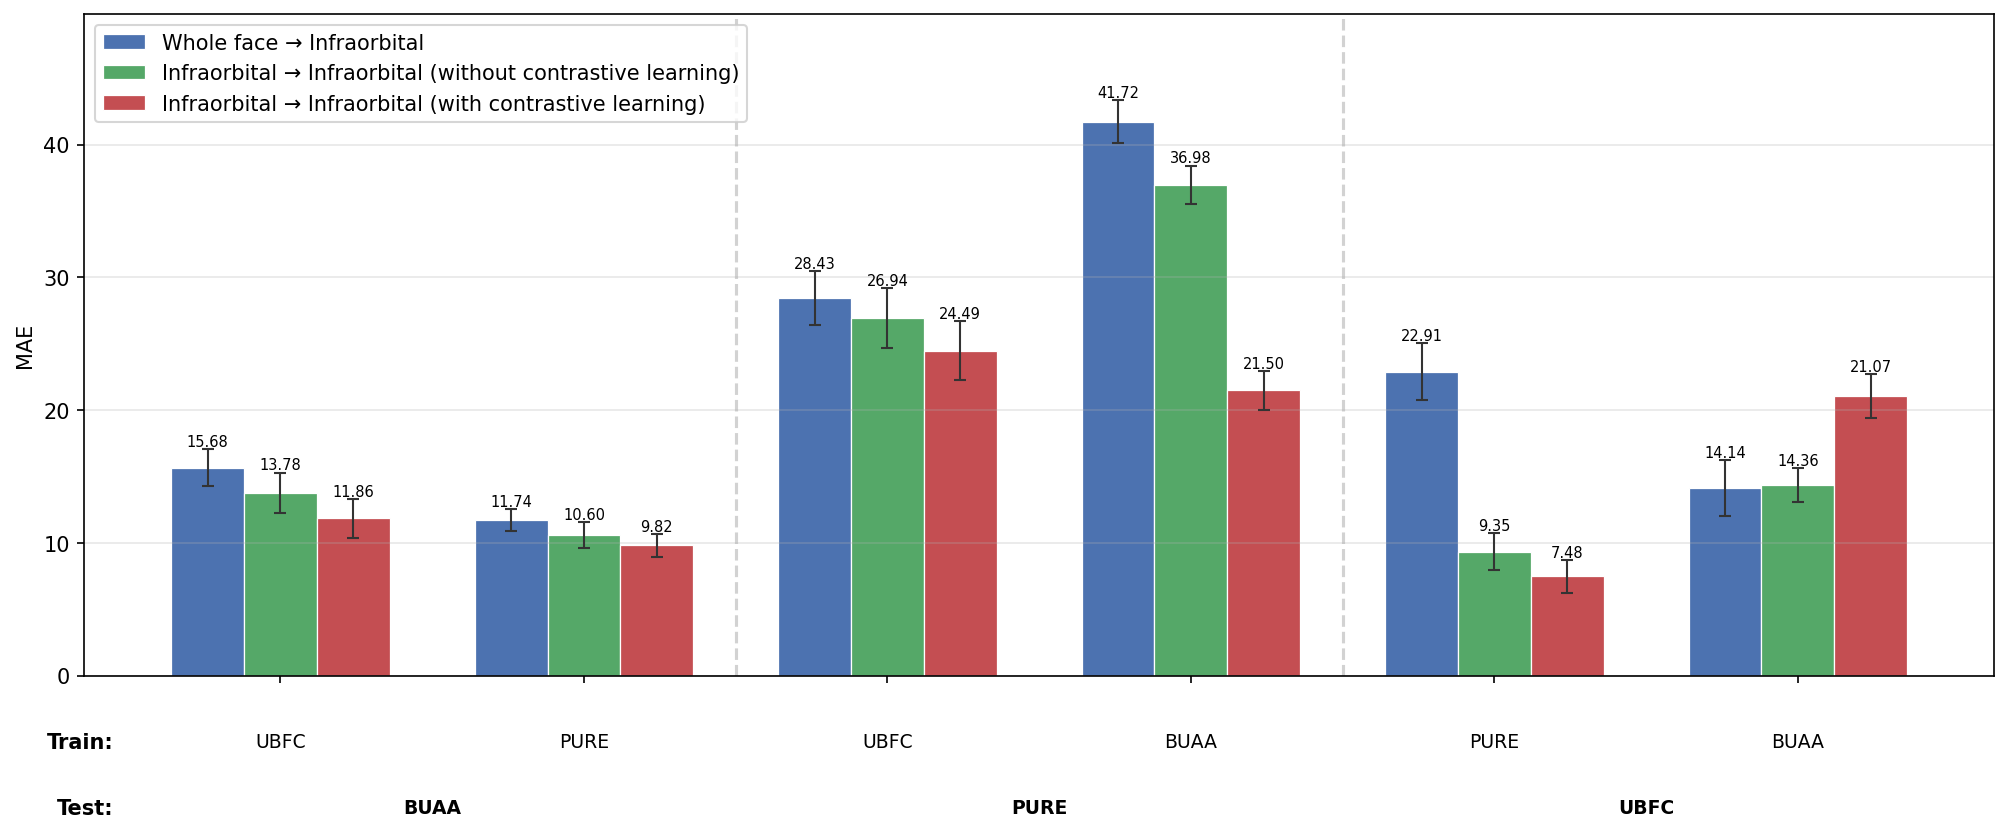
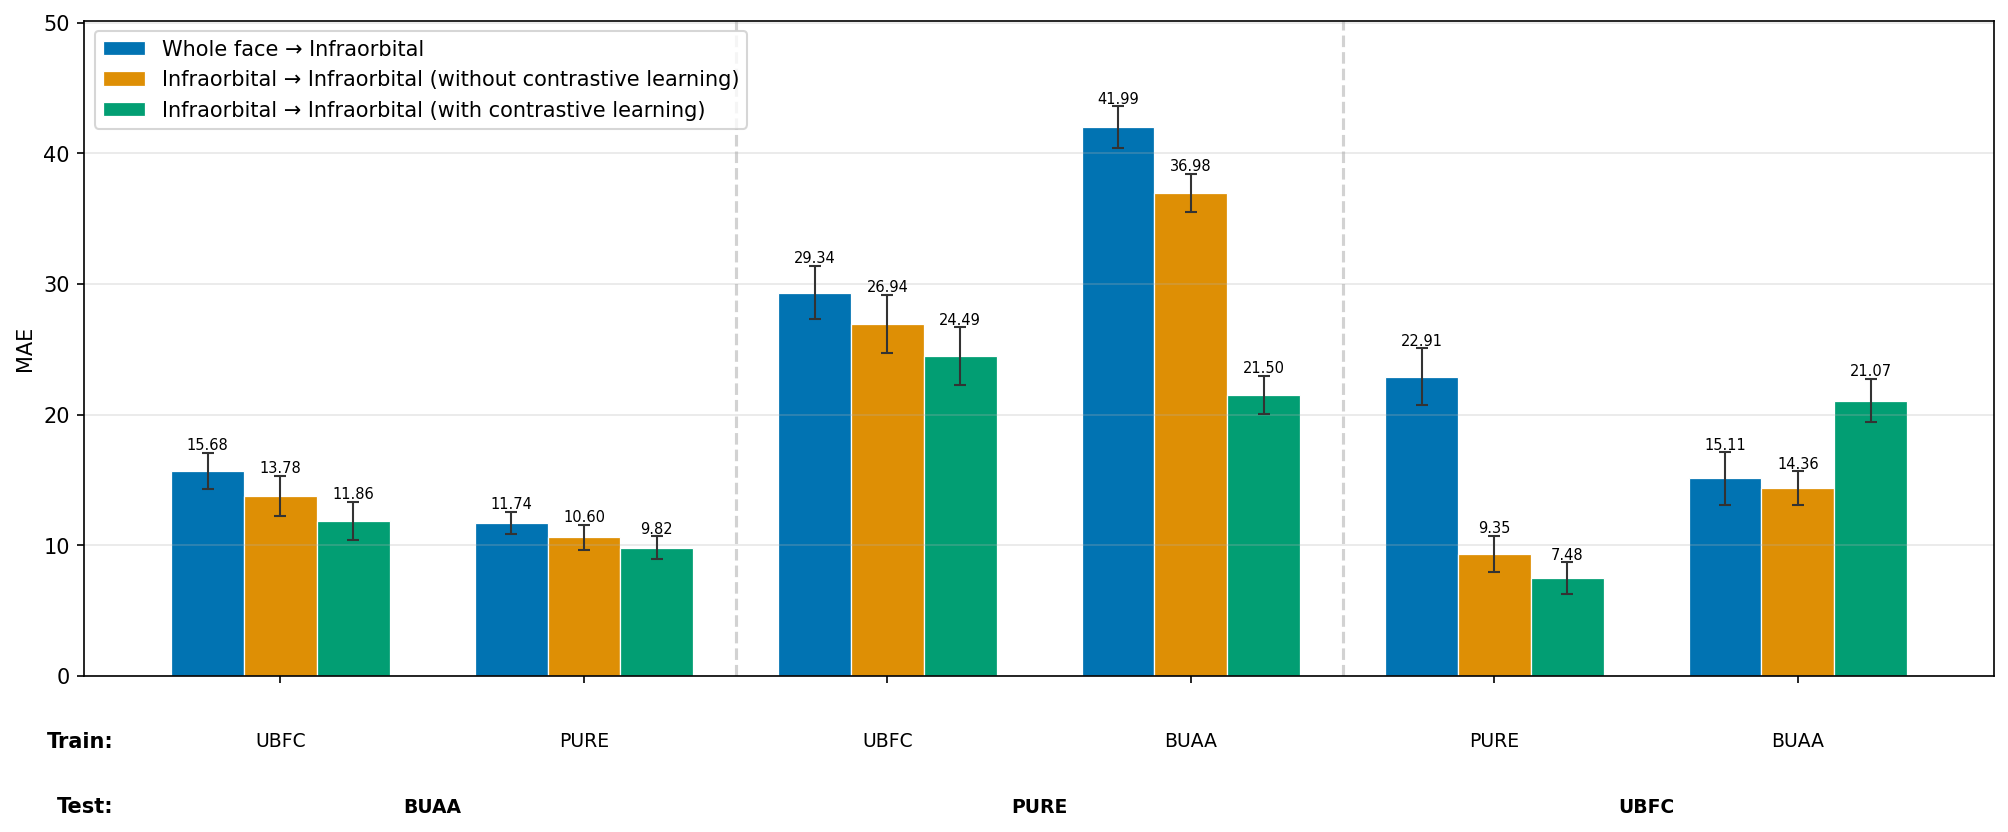
start changing channels

diff --git a/NEST-rPPG/train_regions.py b/NEST-rPPG/train_regions.py
@@ -61,7 +61,7 @@ if _USE_JUPYTER_CONFIG:
         # Save per-subject feature representations (av) during training
         save_features=True,
         # Weight and temperature for InfoNCE alignment between src and pos/neg domains
-        weight_info=0.05,
+        weight_info=0.01,
         tau_info=0.05,
         regions='all',
         grad_clip=5.0,
@@ -176,10 +176,17 @@ frames_num = args.frames_num
 batch_size = args.batchsize
 num_workers = NUM_WORKERS
 GPU = args.GPU
+channel = getattr(args, "channel", "all")
+if isinstance(channel, str):
+    channel = channel.lower()
+else:
+    channel = "all"
+args.channel = channel
 
 print("Training domains (suffix rule, independent of config.TARGET_DOMAIN):")
 print("  tgt_domain    :", tgt_domain)
 print("  source_domain :", source_domain)
+print("  channel       :", channel)
 print("  weight_info   :", getattr(args, "weight_info", 0.0))
 print("  pos_domain    :", pos_domain)
 print("  neg_domain    :", neg_domain)
@@ -328,6 +335,7 @@ log.write("TRAINING CONFIG (regions baseline)\n")
 log.write("  Target domain:     %s\n" % Target_name)
 log.write("  Target index:      %s\n" % target_index_dir)
 log.write("  Target STMap:      %s\n" % args.stmap_name)
+log.write("  Channel:           %s\n" % channel)
 log.write("  Source domains:    %s\n" % Source_domain_Names)
 for i, d in enumerate(Source_domain_Names):
     log.write("    [%d] %s -> %s\n" % (i, d, source_index_dir))
@@ -346,11 +354,12 @@ if not _USE_JUPYTER_CONFIG:
         args,
         experiment_name=getattr(args, 'mlflow_experiment', None) or 'nest-rppg-regions',
         run_name=rPPGNet_name,
-        tags={'script': 'train_regions', 'source_domain': source_domain, 'target_domain': tgt_domain},
+        tags={'script': 'train_regions', 'source_domain': source_domain, 'target_domain': tgt_domain, 'channel': channel},
     )
     mlflow_utils.log_params({
         'source_domain': source_domain,
         'target_domain': tgt_domain,
+        'channel': channel,
         'pos_domain': pos_domain,
         'neg_domain': neg_domain,
         'weight_info': float(getattr(args, 'weight_info', 0.0)),
@@ -650,6 +659,7 @@ try:
             {
                 "source_domain": source_domain,
                 "target_domain": tgt_domain,
+                "channel": channel,
                 "weight_info": float(getattr(args, "weight_info", 0.0)),
                 "tau_info": float(getattr(args, "tau_info", 0.07)),
                 "loss_type": getattr(args, "loss_type", config.LOSS_TYPE),

diff --git a/NEST-rPPG/MyDataset.py b/NEST-rPPG/MyDataset.py
@@ -161,6 +161,18 @@ class Data_DG(Dataset):
         # get STMap
         STMap_Path = os.path.join(nowPath, img_name)
         feature_map = cv2.imread(os.path.join(STMap_Path, STMap_name))
+        channel = getattr(self.args, 'channel', 'all')
+        if isinstance(channel, str):
+            channel = channel.lower()
+        else:
+            channel = 'all'
+
+        if channel in ['r', 'g', 'b']:
+            # cv2.imread loads BGR: channel 0 = Blue, channel 1 = Green, channel 2 = Red
+            ch_idx_map = {'b': 0, 'g': 1, 'r': 2}
+            ch_idx = ch_idx_map[channel]
+            feature_map = np.repeat(feature_map[:, :, ch_idx:ch_idx+1], 3, axis=2)
+
         With, Max_frame, _ = feature_map.shape
         # get original map
         map_ori = feature_map[:, Step_Index:Step_Index + self.frames_num, :]

diff --git a/NEST-rPPG/figures/final_result_plot.py b/NEST-rPPG/figures/final_result_plot.py
@@ -41,7 +41,7 @@ BAR_CONFIGS = [
         "regions": "whole",
         "weight": 0.0,
         "use_whole_src": True,
-        "color": "#4C72B0",
+        "color": "#0173B2",  # Seaborn colorblind blue
     },
     {
         "key": "infra",
@@ -49,7 +49,7 @@ BAR_CONFIGS = [
         "regions": "all",
         "weight": 0.0,
         "use_whole_src": False,
-        "color": "#55A868",
+        "color": "#DE8F05",  # Seaborn colorblind orange
     },
     {
         "key": "infra_w001",
@@ -57,7 +57,7 @@ BAR_CONFIGS = [
         "regions": "all",
         "weight": 0.01,
         "use_whole_src": False,
-        "color": "#C44E52",
+        "color": "#029E73",  # Seaborn colorblind green
     },
 ]
 

diff --git a/NEST-rPPG/utils/core.py b/NEST-rPPG/utils/core.py
@@ -133,6 +133,10 @@ def get_args():
                         choices=['all', 'neg', 'pos'],
                         help='InfoNCE logits source: all (pos+neg), neg-only, or pos-only')
 
+    parser.add_argument('-c', '--channel', dest='channel', type=str, default='all',
+                        choices=['all', 'r', 'g', 'b', 'R', 'G', 'B', 'rgb', 'RGB'],
+                        help="Color channel to use: 'all' (default), 'r', 'g', or 'b'")
+
     # MLflow experiment tracking
     parser.add_argument('--mlflow-experiment', dest='mlflow_experiment', type=str, default=None,
                         help='MLflow experiment name (default: config.MLFLOW_EXPERIMENT_NAME)')
